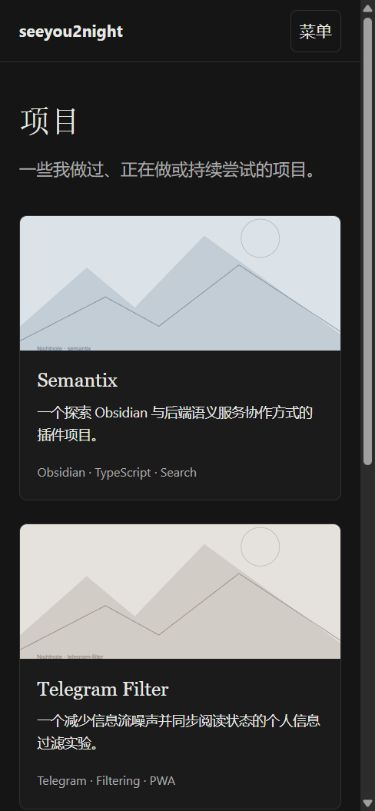
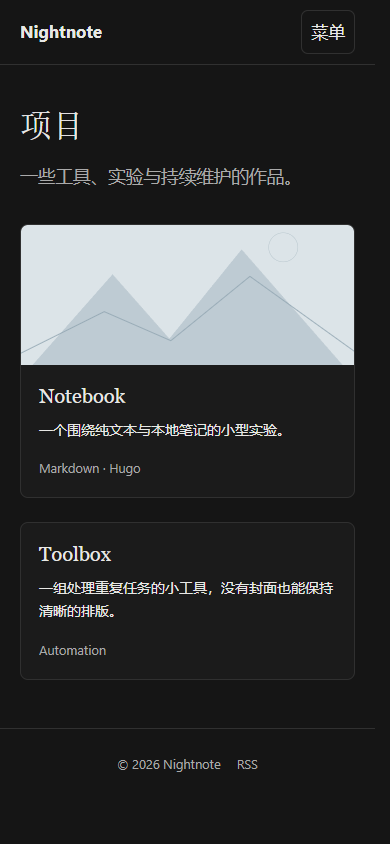
Use Nightnote branding in theme demo

diff --git a/tests/test_theme.py b/tests/test_theme.py
@@ -21,6 +21,8 @@ class ThemeTest(unittest.TestCase):
             for page in ("index.html", "explore/index.html", "projects/index.html",
                          "about/index.html", "posts/welcome/index.html"):
                 html = (output / page).read_text(encoding="utf-8")
+                if page == "index.html":
+                    self.assertIn("<title>Nightnote</title>", html)
                 self.assertIn('/preview/search.json', html)
                 assets = re.findall(r'/preview/(?:css|js)/site\.min\.[a-f0-9]+\.(?:css|js)', html)
                 self.assertEqual(len(assets), 2)

diff --git a/README.md b/README.md
@@ -6,7 +6,7 @@ Nightnote 是面向 Obsidian 笔记的 Hugo 个人博客主题，采用简洁的
 
 ## 视觉预览
 
-以下为此前本地测试站点的截图，展示主题在实际内容中的效果；仓库自带的 `exampleSite/` 使用独立演示内容。
+以下截图来自仓库自带的独立 `exampleSite/` 演示内容。
 
 ### 首页 · 浅色
 
@@ -32,11 +32,11 @@ Nightnote 是面向 Obsidian 笔记的 Hugo 个人博客主题，采用简洁的
 git clone https://github.com/seeyou2n1ght/hugo-theme-nightnote.git themes/nightnote
 ```
 
-`hugo.yaml` 至少需要以下配置。搜索与随机阅读依赖 `search.json`；数学公式使用下方的 Goldmark passthrough 配置。
+当前主题要求每个普通内容页都设置 `private: false` 和 `publishStatus: published`；缺少这两个字段的普通 Hugo 文章会使构建失败。主题不是发布闸门，仍须在站点侧筛选内容和附件。`hugo.yaml` 至少需要以下配置。搜索与随机阅读依赖 `search.json`；数学公式使用下方的 Goldmark passthrough 配置。
 
 ```yaml
 baseURL: https://blog.example.com/
-title: 我的博客
+title: Nightnote
 defaultContentLanguage: zh
 hasCJKLanguage: true
 languages:
